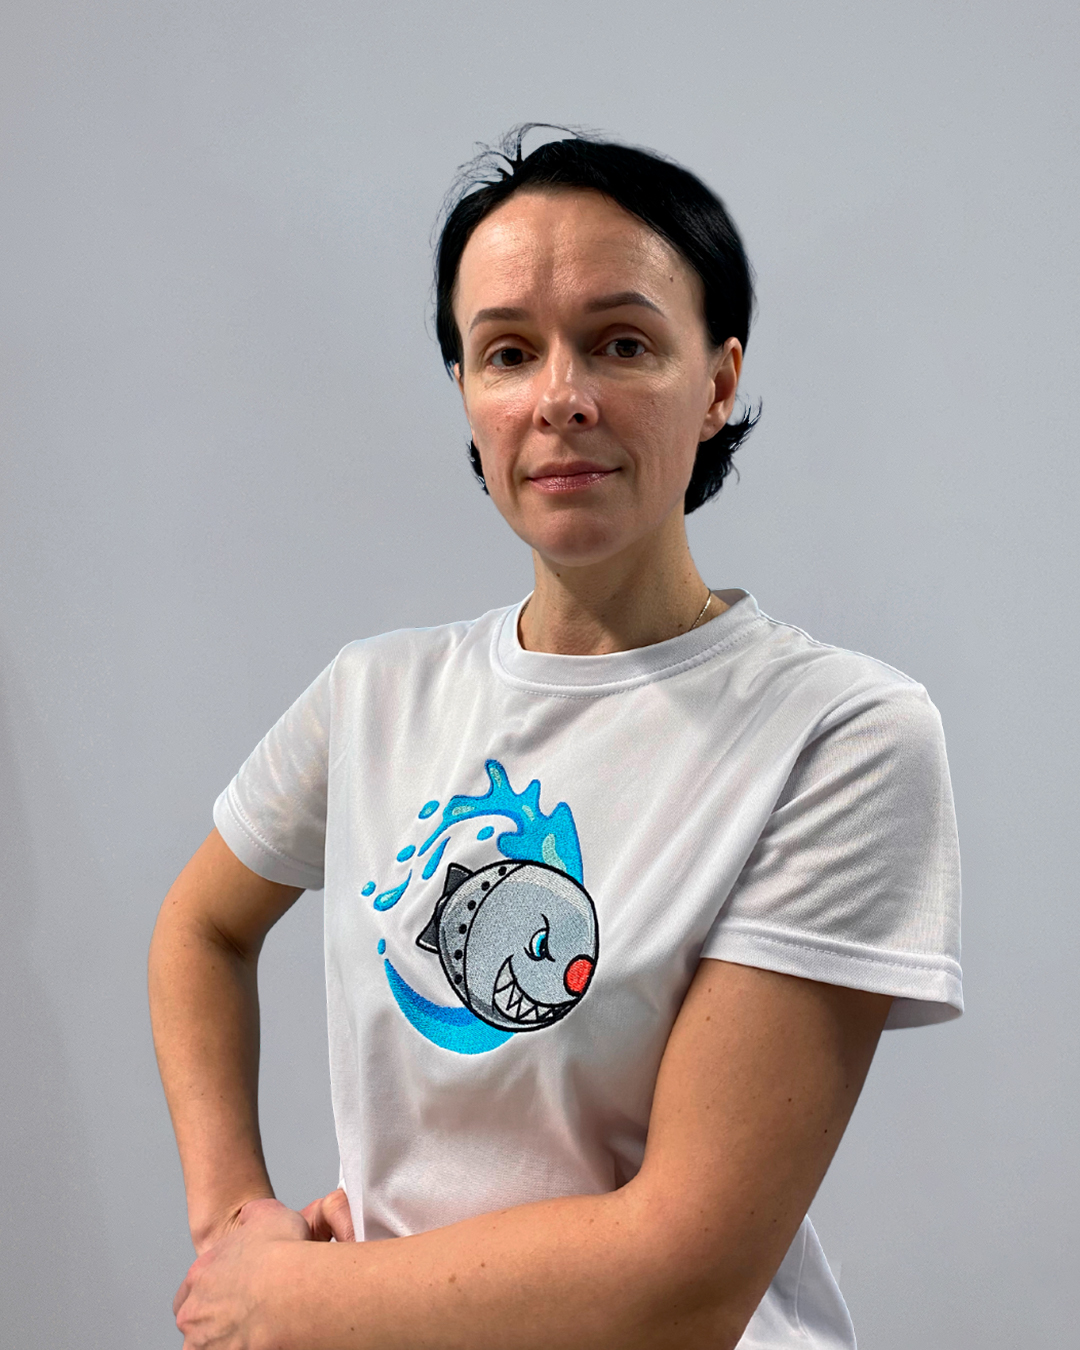
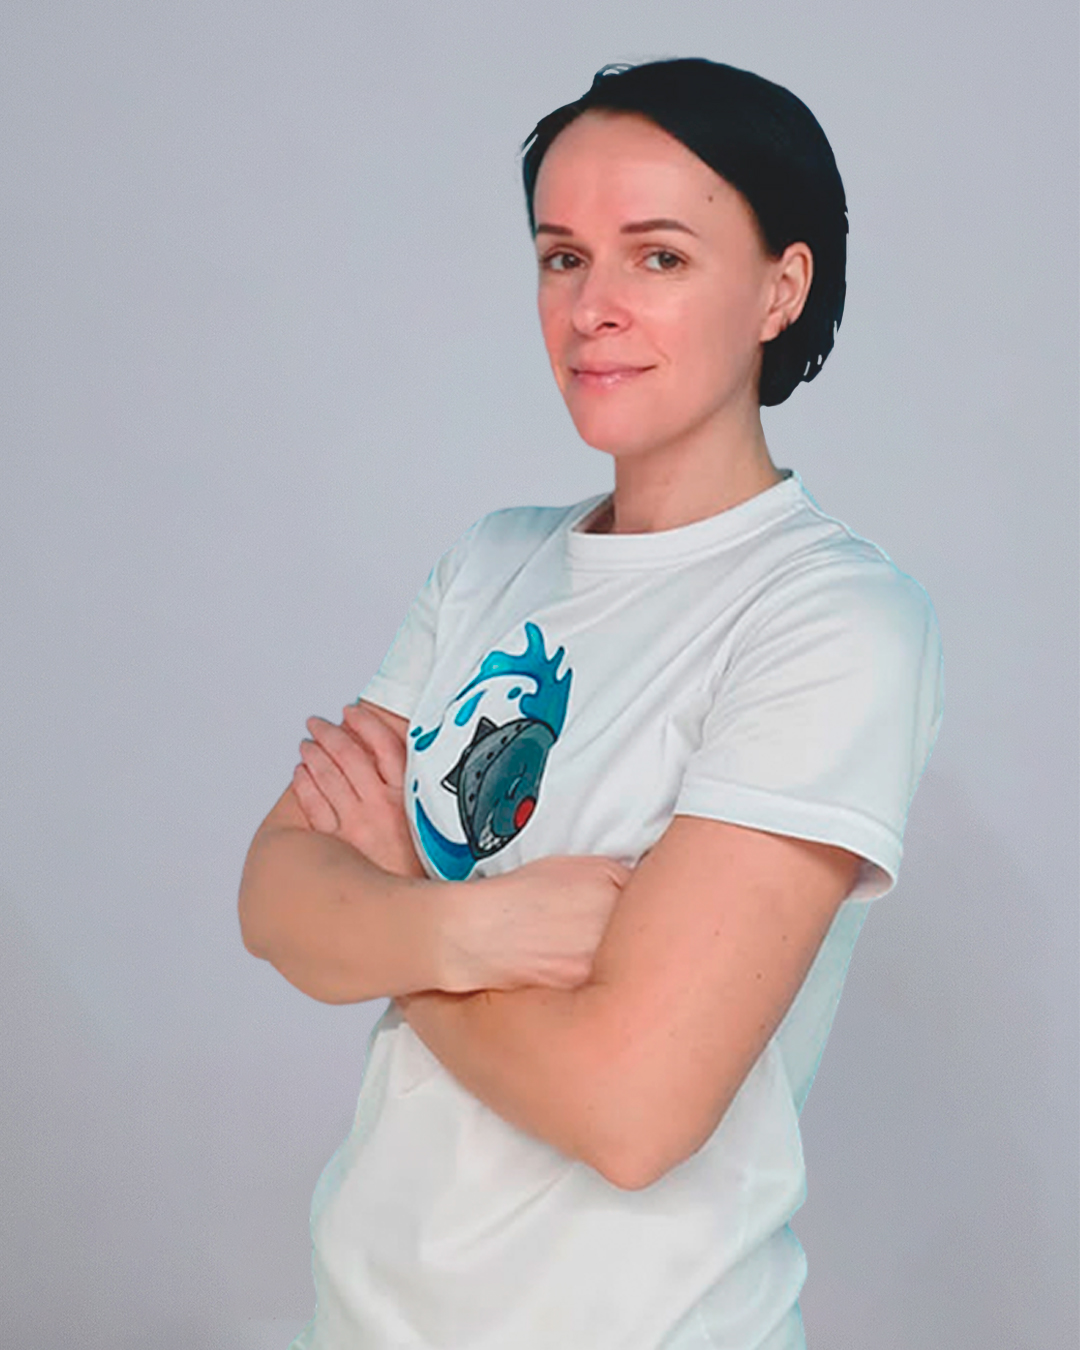
поправили фотки

diff --git a/views/Team/Team.vue b/views/Team/Team.vue
@@ -44,8 +44,7 @@ import kasandra from '~/assets/jpg/team/kasandra.jpg';
 import druzhinin from '~/assets/jpg/team/druzhinin.jpg';
 import georgieva from '~/assets/jpg/team/georgieva.jpg';
 import timofeeva from '~/assets/jpg/team/timofeeva.jpg';
-import bykov from '~/assets/jpg/team/bykov.jpg';
-import beskrovnaya from '~/assets/jpg/team/beskrovnaya_2.jpg';
+import beskrovnaya from '~/assets/jpg/team/beskrovnaya.jpg';
 
 const teamArr = [
     {
@@ -118,17 +117,6 @@ const teamArr = [
             'Тренерский стаж один год',
         ],
         inst: '_daxaaa',
-    },
-    {
-        photo: bykov,
-        name: 'Владимир Быков',
-        desc: [
-            'Кандидат в мастера спорта по плаванию',
-            'Неоднократный призер первенств Москвы и межвузовских соревнований',
-            'Участник всероссийских соревнований',
-            'Опыт работы тренером два года',
-        ],
-        inst: '_bykov_off',
     },
     {
         photo: beskrovnaya,

diff --git a/views/NewTeam/NewTeam.vue b/views/NewTeam/NewTeam.vue
@@ -1,4 +1,4 @@
-<template>
+<!-- <template>
     <div class="container new-team" id="team">
         <h2 data-aos="fade-right" data-aos-once="true">Наши <span class="blue">тренеры</span></h2>
         <div class="new-team__wrap">
@@ -175,4 +175,4 @@ export default {
         });
     },
 };
-</script>
+</script> -->
